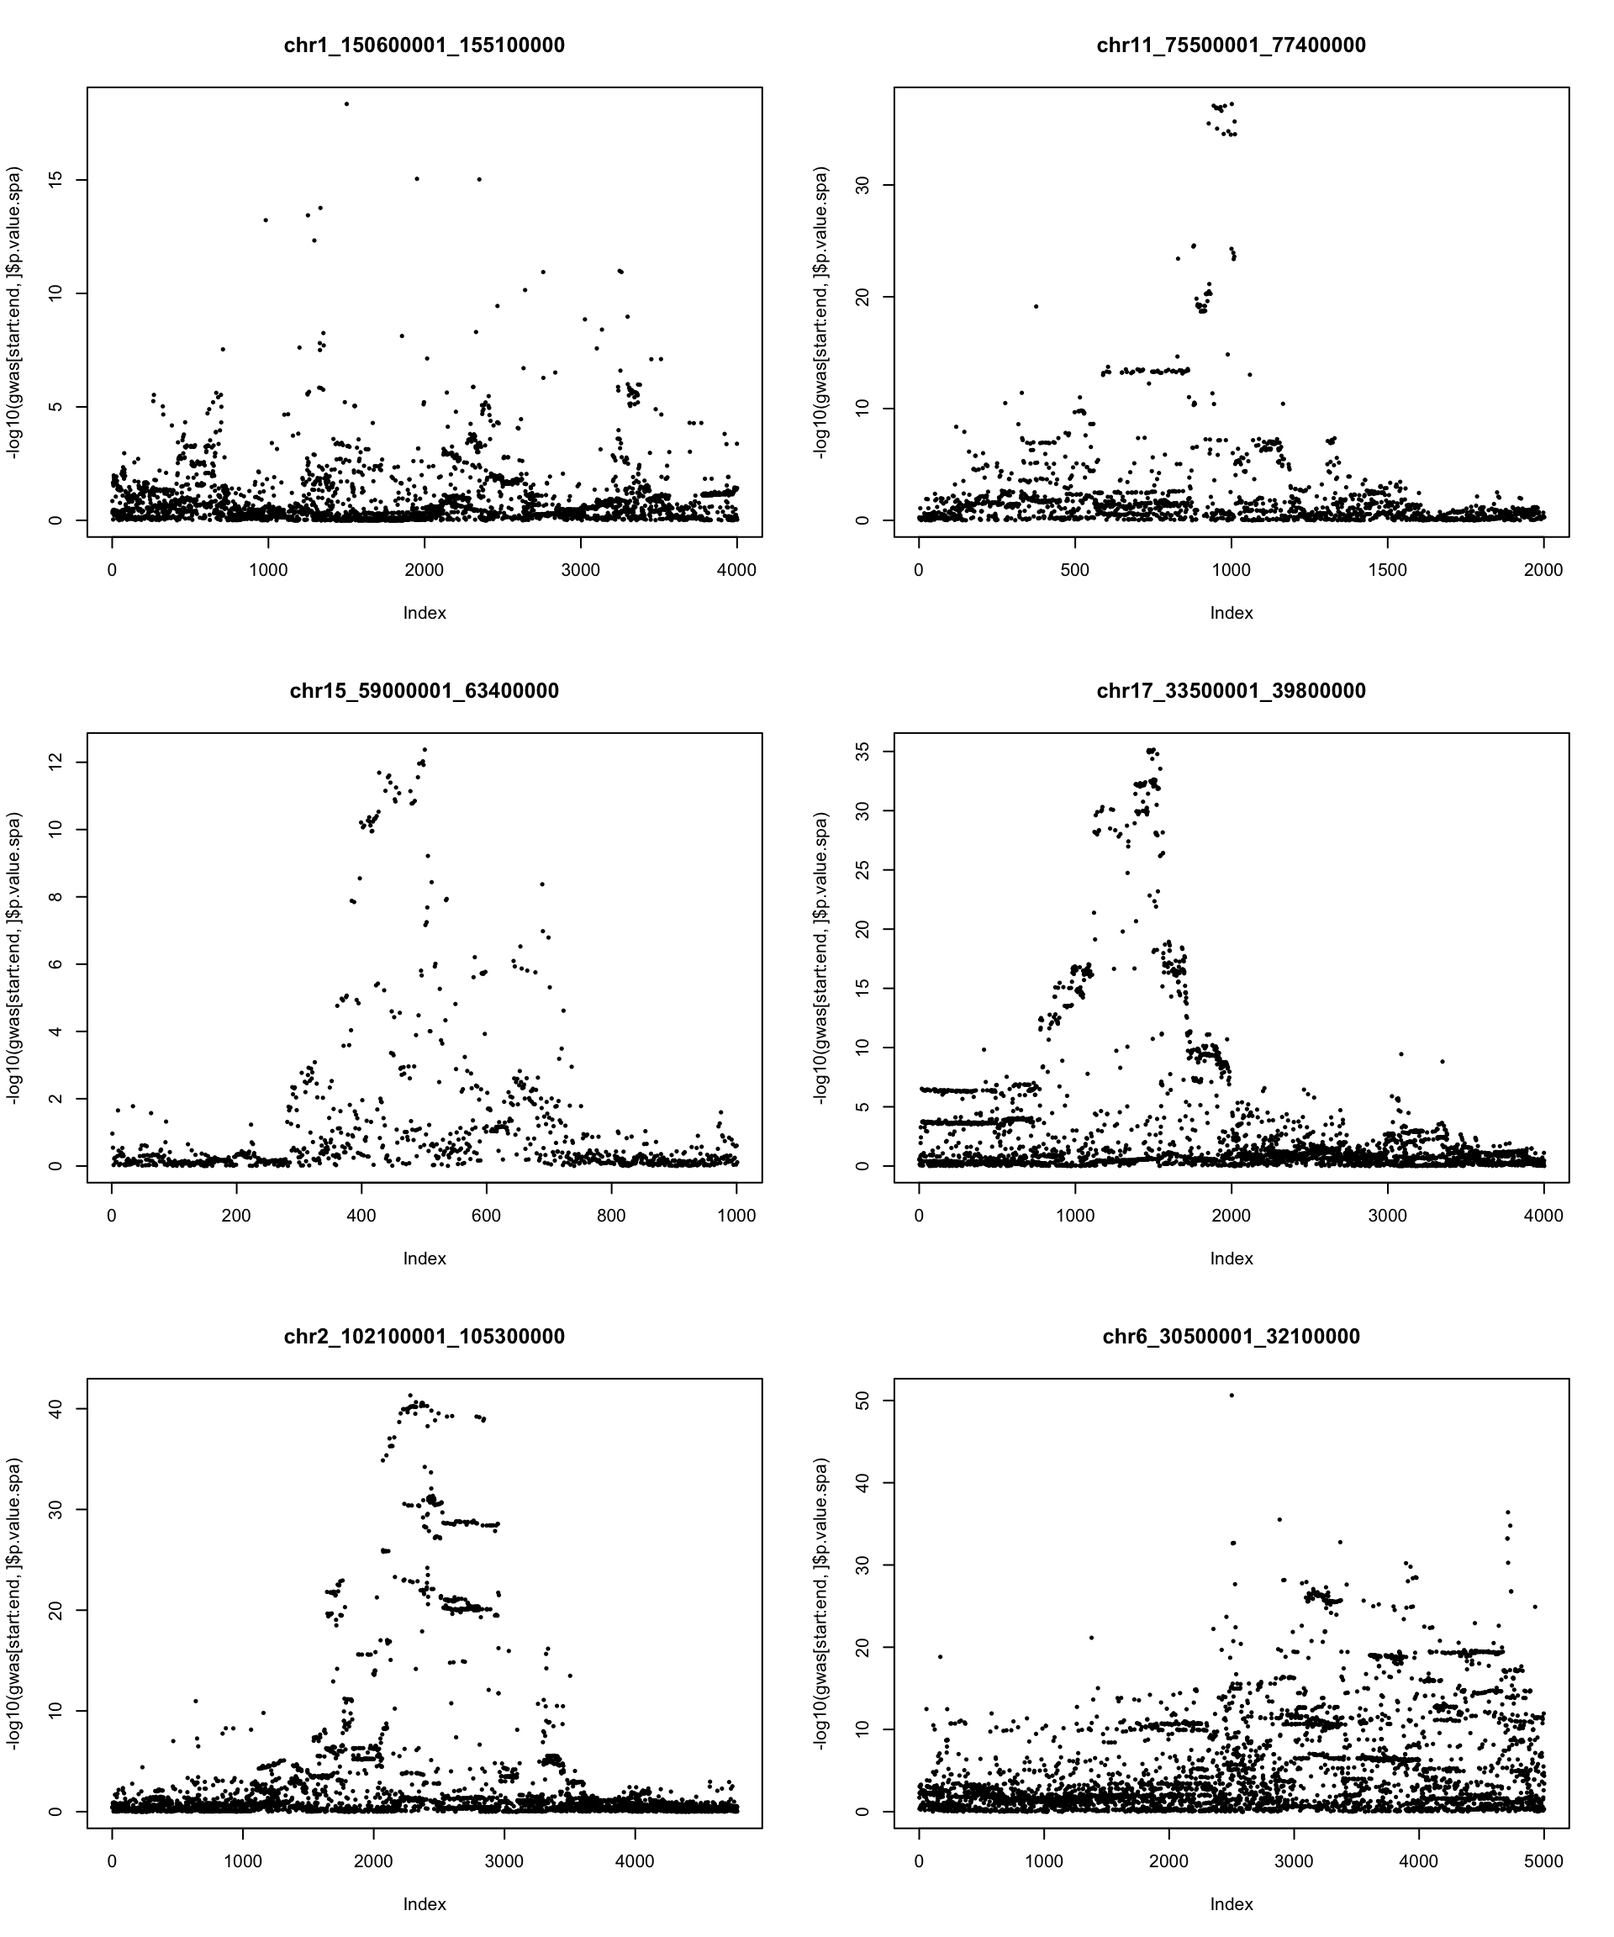
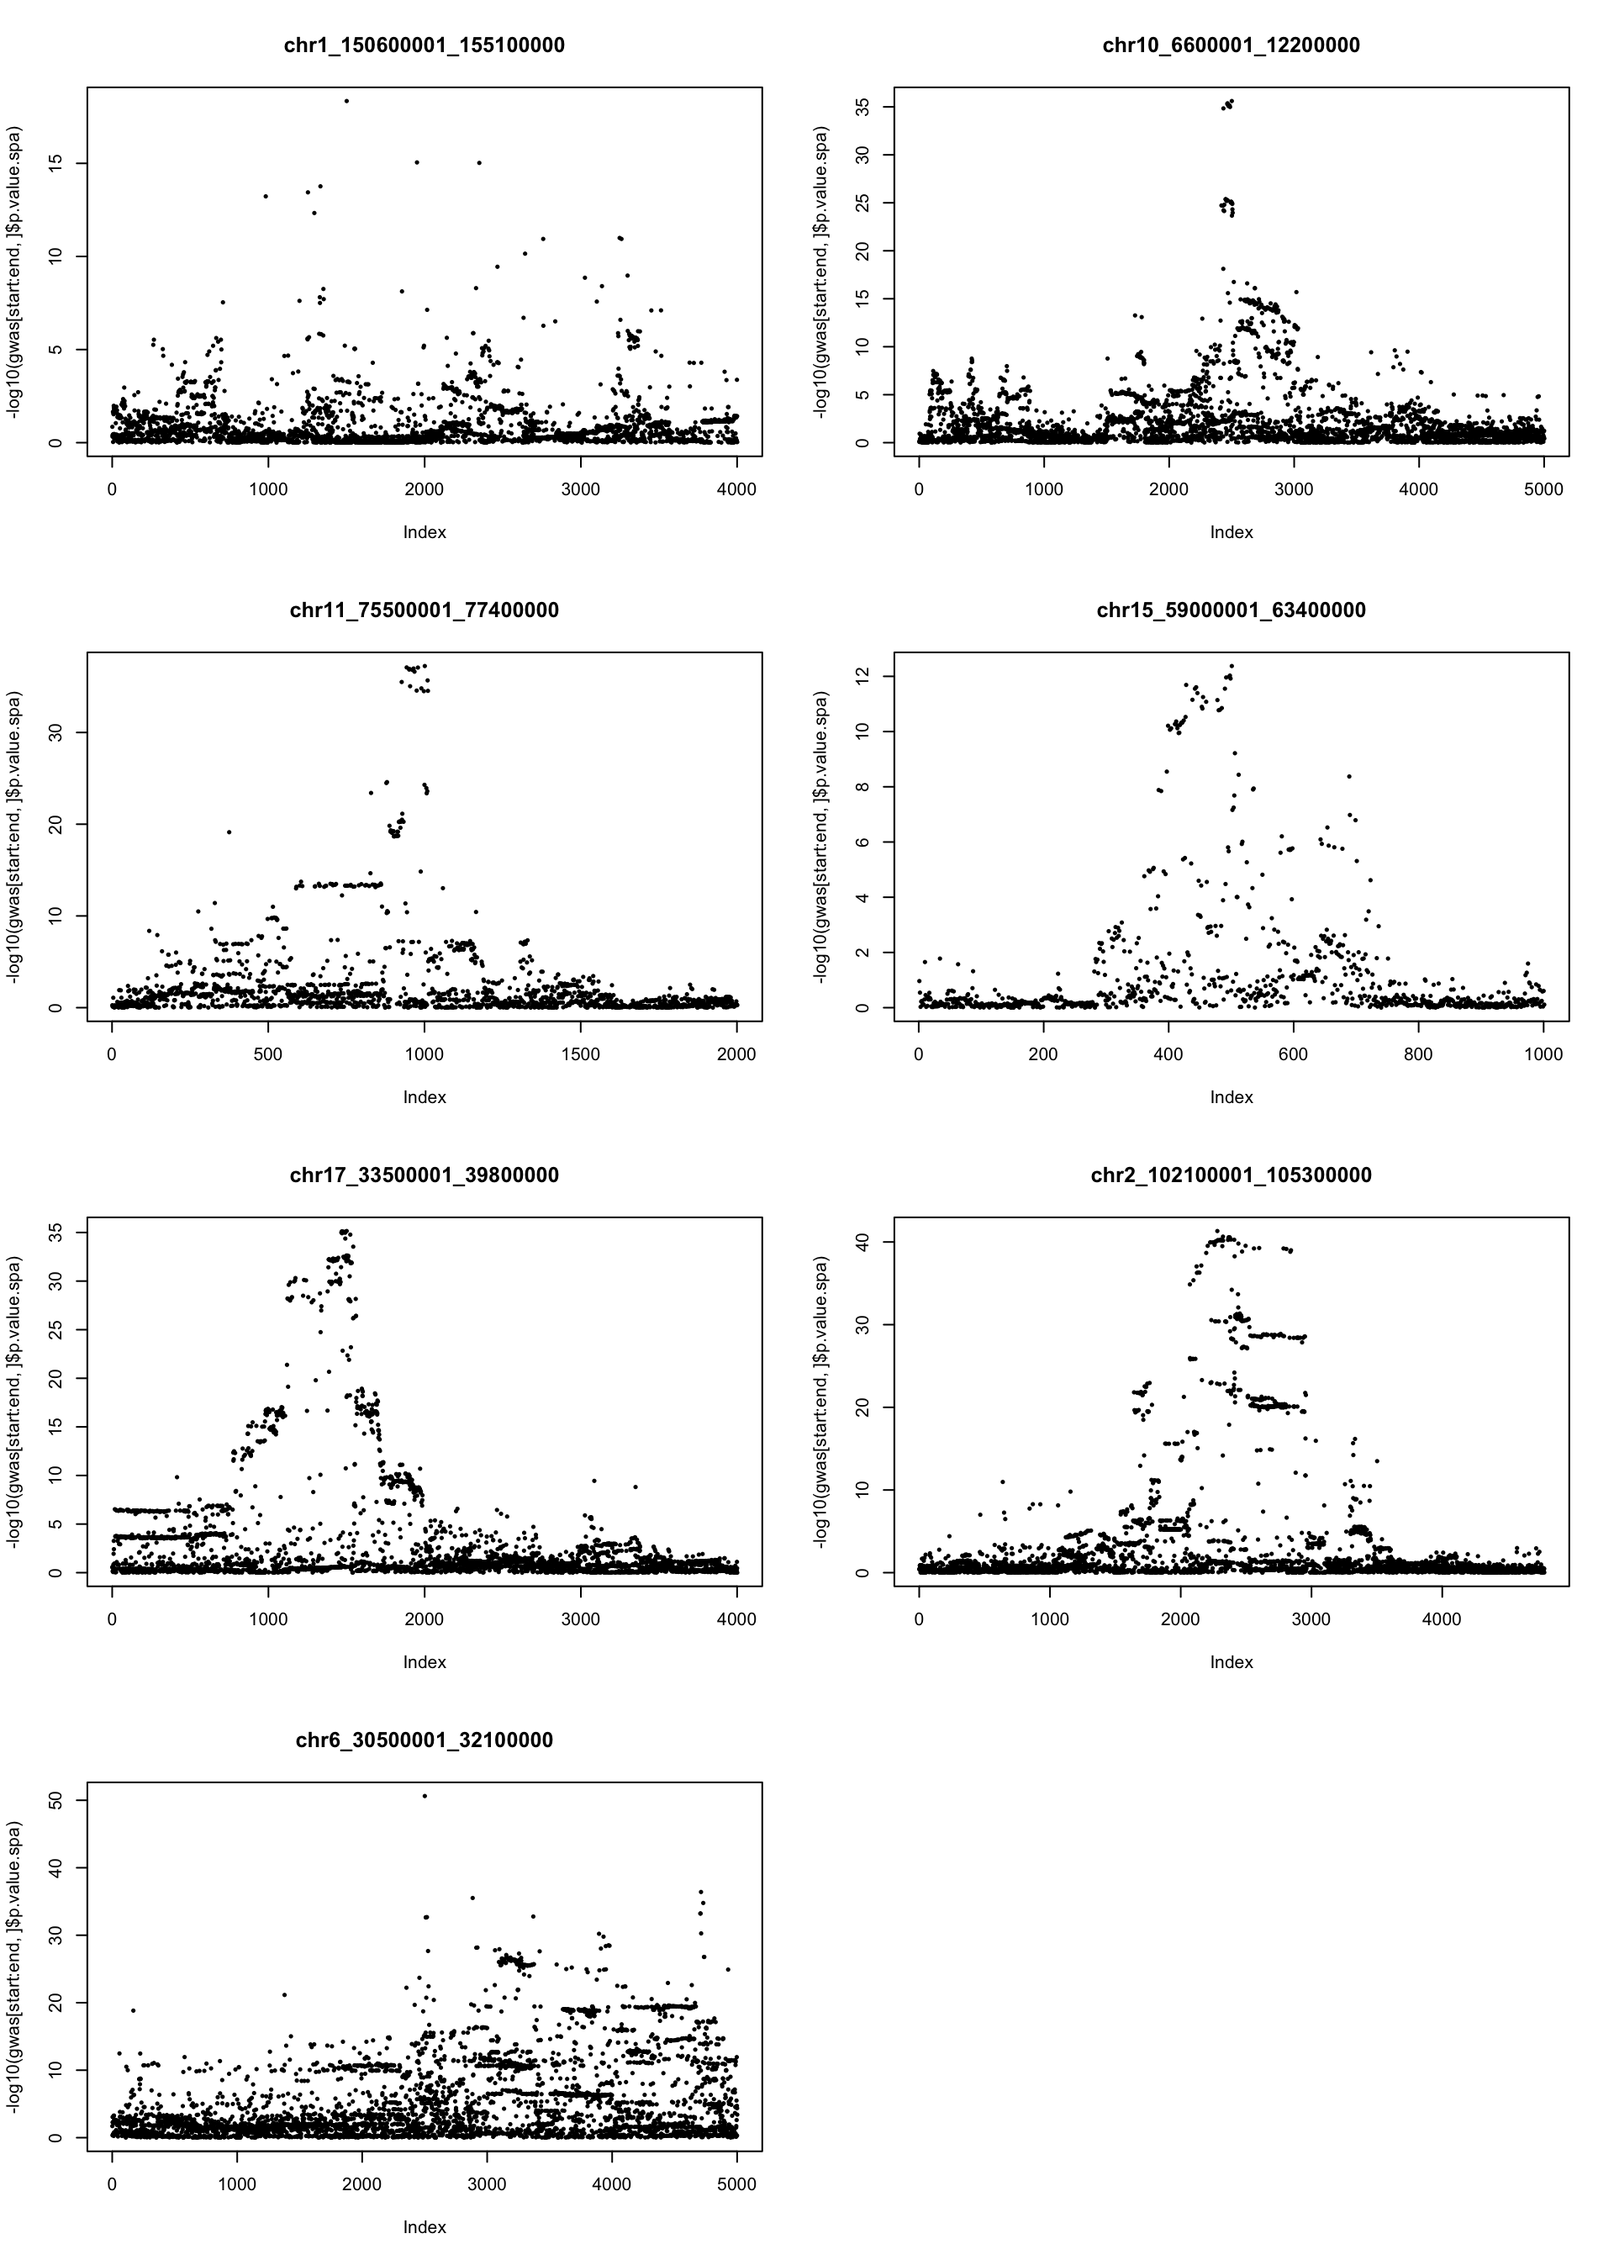
Build site.

diff --git a/docs/region_cut.html b/docs/region_cut.html
@@ -475,16 +475,16 @@ This reproducible <a href="http://rmarkdown.rstudio.com">R Markdown</a> analysis
 <div class="panel panel-default">
 <div class="panel-heading">
 <p class="panel-title">
-<a data-toggle="collapse" data-parent="#workflowr-checks" href="#strongRepositoryversionstrongahrefhttpsgithubcomyunqiyang0215survivaldataanalysistree2b1f395b81a13bc54c842d9c900c6609cf691ce8targetblank2b1f395a"> <span class="glyphicon glyphicon-ok text-success" aria-hidden="true"></span> <strong>Repository version:</strong> <a href="https://github.com/yunqiyang0215/survival-data-analysis/tree/2b1f395b81a13bc54c842d9c900c6609cf691ce8" target="_blank">2b1f395</a> </a>
+<a data-toggle="collapse" data-parent="#workflowr-checks" href="#strongRepositoryversionstrongahrefhttpsgithubcomyunqiyang0215survivaldataanalysistreed9c65994bc2d4bb6d0294c91dc063bbda1dc4b53targetblankd9c6599a"> <span class="glyphicon glyphicon-ok text-success" aria-hidden="true"></span> <strong>Repository version:</strong> <a href="https://github.com/yunqiyang0215/survival-data-analysis/tree/d9c65994bc2d4bb6d0294c91dc063bbda1dc4b53" target="_blank">d9c6599</a> </a>
 </p>
 </div>
[2 lines of base64/hex data omitted]
 <div class="panel-body">
 <p>
 Great! You are using Git for version control. Tracking code development and connecting the code version to the results is critical for reproducibility.
 </p>
 <p>
-The results in this page were generated with repository version <a href="https://github.com/yunqiyang0215/survival-data-analysis/tree/2b1f395b81a13bc54c842d9c900c6609cf691ce8" target="_blank">2b1f395</a>. See the <em>Past versions</em> tab to see a history of the changes made to the R Markdown and HTML files.
+The results in this page were generated with repository version <a href="https://github.com/yunqiyang0215/survival-data-analysis/tree/d9c65994bc2d4bb6d0294c91dc063bbda1dc4b53" target="_blank">d9c6599</a>. See the <em>Past versions</em> tab to see a history of the changes made to the R Markdown and HTML files.
 </p>
 <p>
 Note that you need to be careful to ensure that all relevant files for the analysis have been committed to Git prior to generating the results (you can use <code>wflow_publish</code> or <code>wflow_git_commit</code>). workflowr only checks the R Markdown file, but you know if there are other scripts or data files that it depends on. Below is the status of the Git repository when the results were generated:
@@ -540,6 +540,40 @@ Message
 Rmd
 </td>
 <td>
+<a href="https://github.com/yunqiyang0215/survival-data-analysis/blob/d9c65994bc2d4bb6d0294c91dc063bbda1dc4b53/analysis/region_cut.Rmd" target="_blank">d9c6599</a>
+</td>
+<td>
+yunqiyang0215
+</td>
+<td>
+2024-06-18
+</td>
+<td>
+wflow_publish("analysis/region_cut.Rmd")
+</td>
+</tr>
+<tr>
+<td>
+html
+</td>
+<td>
+<a href="https://rawcdn.githack.com/yunqiyang0215/survival-data-analysis/ebeca153db80e370358556c4a1f8d979619041ef/docs/region_cut.html" target="_blank">ebeca15</a>
+</td>
+<td>
+yunqiyang0215
+</td>
+<td>
+2024-06-18
+</td>
+<td>
+Build site.
+</td>
+</tr>
+<tr>
+<td>
+Rmd
+</td>
+<td>
 <a href="https://github.com/yunqiyang0215/survival-data-analysis/blob/2b1f395b81a13bc54c842d9c900c6609cf691ce8/analysis/region_cut.Rmd" target="_blank">2b1f395</a>
 </td>
 <td>
@@ -567,6 +601,7 @@ wflow_publish("analysis/region_cut.Rmd")
 <li><p>select the top signal + surrounding SNPs based on AOA.</p></li>
 </ol>
 <pre class="r"><code>regions = c(&quot;chr1_150600001_155100000&quot;,
+            &quot;chr10_6600001_12200000&quot;,
             &quot;chr11_75500001_77400000&quot;, 
             &quot;chr15_59000001_63400000&quot;,
             &quot;chr17_33500001_39800000&quot;,
@@ -574,7 +609,7 @@ wflow_publish("analysis/region_cut.Rmd")
             &quot;chr6_30500001_32100000&quot;)
 
 regions.aoa = c(&quot;chr12_46000001_48700000&quot;, &quot;chr2_143400001_147900000&quot;)</code></pre>
-<pre class="r"><code>par(mfrow = c(3,2))
+<pre class="r"><code>par(mfrow = c(4,2))
 dir = &quot;/Users/nicholeyang/Downloads/survivalsusie/result/gwas_surv&quot;
 for (reg in regions){
   file_path = paste0(dir, &quot;/all_gwas_&quot;, reg, &quot;.rds&quot;)
@@ -605,6 +640,8 @@ for (reg in regions){
 }</code></pre>
 <pre><code>[1] &quot;There are 10507 SNPs in chr1_150600001_155100000&quot;
 [1] &quot;There are 4001 SNPs remain in chr1_150600001_155100000&quot;</code></pre>
+<pre><code>[1] &quot;There are 21347 SNPs in chr10_6600001_12200000&quot;
+[1] &quot;There are 5001 SNPs remain in chr10_6600001_12200000&quot;</code></pre>
 <pre><code>[1] &quot;There are 5352 SNPs in chr11_75500001_77400000&quot;
 [1] &quot;There are 2001 SNPs remain in chr11_75500001_77400000&quot;</code></pre>
 <pre><code>[1] &quot;There are 13682 SNPs in chr15_59000001_63400000&quot;
@@ -616,6 +653,43 @@ for (reg in regions){
 <pre><code>[1] &quot;There are 14915 SNPs in chr6_30500001_32100000&quot;
 [1] &quot;There are 5001 SNPs remain in chr6_30500001_32100000&quot;</code></pre>
 <p><img src="figure/region_cut.Rmd/unnamed-chunk-2-1.png" width="960" style="display: block; margin: auto;" /></p>
+<p>
+<button type="button" class="btn btn-default btn-xs btn-workflowr btn-workflowr-fig" data-toggle="collapse" data-target="#fig-unnamed-chunk-2-1">
+Past versions of unnamed-chunk-2-1.png
+</button>
+</p>
+<div id="fig-unnamed-chunk-2-1" class="collapse">
+<div class="table-responsive">
+<table class="table table-condensed table-hover">
+<thead>
+<tr>
+<th>
+Version
+</th>
+<th>
+Author
+</th>
+<th>
+Date
+</th>
+</tr>
+</thead>
+<tbody>
+<tr>
+<td>
+<a href="https://github.com/yunqiyang0215/survival-data-analysis/blob/ebeca153db80e370358556c4a1f8d979619041ef/docs/figure/region_cut.Rmd/unnamed-chunk-2-1.png" target="_blank">ebeca15</a>
+</td>
+<td>
+yunqiyang0215
+</td>
+<td>
+2024-06-18
+</td>
+</tr>
+</tbody>
+</table>
+</div>
+</div>
 <pre class="r"><code>reg = &quot;chr12_46000001_48700000&quot;
 file_path = &quot;/Users/nicholeyang/Downloads/survivalsusie/result/gwas_surv/aoa_gwas_chr12_46000001_48700000.rds&quot;
 gwas = data.frame(readRDS(file_path))
@@ -623,6 +697,43 @@ start = 5500
 end = 7000
 plot(-log10(gwas[start:end, ]$p.value.spa),pch = 20, cex = 0.5, main = reg)</code></pre>
 <p><img src="figure/region_cut.Rmd/unnamed-chunk-3-1.png" width="672" style="display: block; margin: auto;" /></p>
+<p>
+<button type="button" class="btn btn-default btn-xs btn-workflowr btn-workflowr-fig" data-toggle="collapse" data-target="#fig-unnamed-chunk-3-1">
+Past versions of unnamed-chunk-3-1.png
+</button>
+</p>
+<div id="fig-unnamed-chunk-3-1" class="collapse">
+<div class="table-responsive">
+<table class="table table-condensed table-hover">
+<thead>
+<tr>
+<th>
+Version
+</th>
+<th>
+Author
+</th>
+<th>
+Date
+</th>
+</tr>
+</thead>
+<tbody>
+<tr>
+<td>
+<a href="https://github.com/yunqiyang0215/survival-data-analysis/blob/ebeca153db80e370358556c4a1f8d979619041ef/docs/figure/region_cut.Rmd/unnamed-chunk-3-1.png" target="_blank">ebeca15</a>
+</td>
+<td>
+yunqiyang0215
+</td>
+<td>
+2024-06-18
+</td>
+</tr>
+</tbody>
+</table>
+</div>
+</div>
 <pre class="r"><code>write.table(rownames(gwas[start:end, ]),
               paste0(&quot;/Users/nicholeyang/Downloads/survivalsusie/data/asthma_finemap_snplist/sub_&quot;, reg, &#39;.txt&#39;))</code></pre>
 <pre class="r"><code>reg = &quot;chr2_143400001_147900000&quot;
@@ -632,6 +743,43 @@ start = 5000
 end = 7000
 plot(-log10(gwas[start:end, ]$p.value.spa),pch = 20, cex = 0.5, main = reg)</code></pre>
 <p><img src="figure/region_cut.Rmd/unnamed-chunk-4-1.png" width="672" style="display: block; margin: auto;" /></p>
+<p>
+<button type="button" class="btn btn-default btn-xs btn-workflowr btn-workflowr-fig" data-toggle="collapse" data-target="#fig-unnamed-chunk-4-1">
+Past versions of unnamed-chunk-4-1.png
+</button>
+</p>
+<div id="fig-unnamed-chunk-4-1" class="collapse">
+<div class="table-responsive">
+<table class="table table-condensed table-hover">
+<thead>
+<tr>
+<th>
+Version
+</th>
+<th>
+Author
+</th>
+<th>
+Date
+</th>
+</tr>
+</thead>
+<tbody>
+<tr>
+<td>
+<a href="https://github.com/yunqiyang0215/survival-data-analysis/blob/ebeca153db80e370358556c4a1f8d979619041ef/docs/figure/region_cut.Rmd/unnamed-chunk-4-1.png" target="_blank">ebeca15</a>
+</td>
+<td>
+yunqiyang0215
+</td>
+<td>
+2024-06-18
+</td>
+</tr>
+</tbody>
+</table>
+</div>
+</div>
 <pre class="r"><code>write.table(rownames(gwas[start:end, ]),
               paste0(&quot;/Users/nicholeyang/Downloads/survivalsusie/data/asthma_finemap_snplist/sub_&quot;, reg, &#39;.txt&#39;))</code></pre>
 <br>
